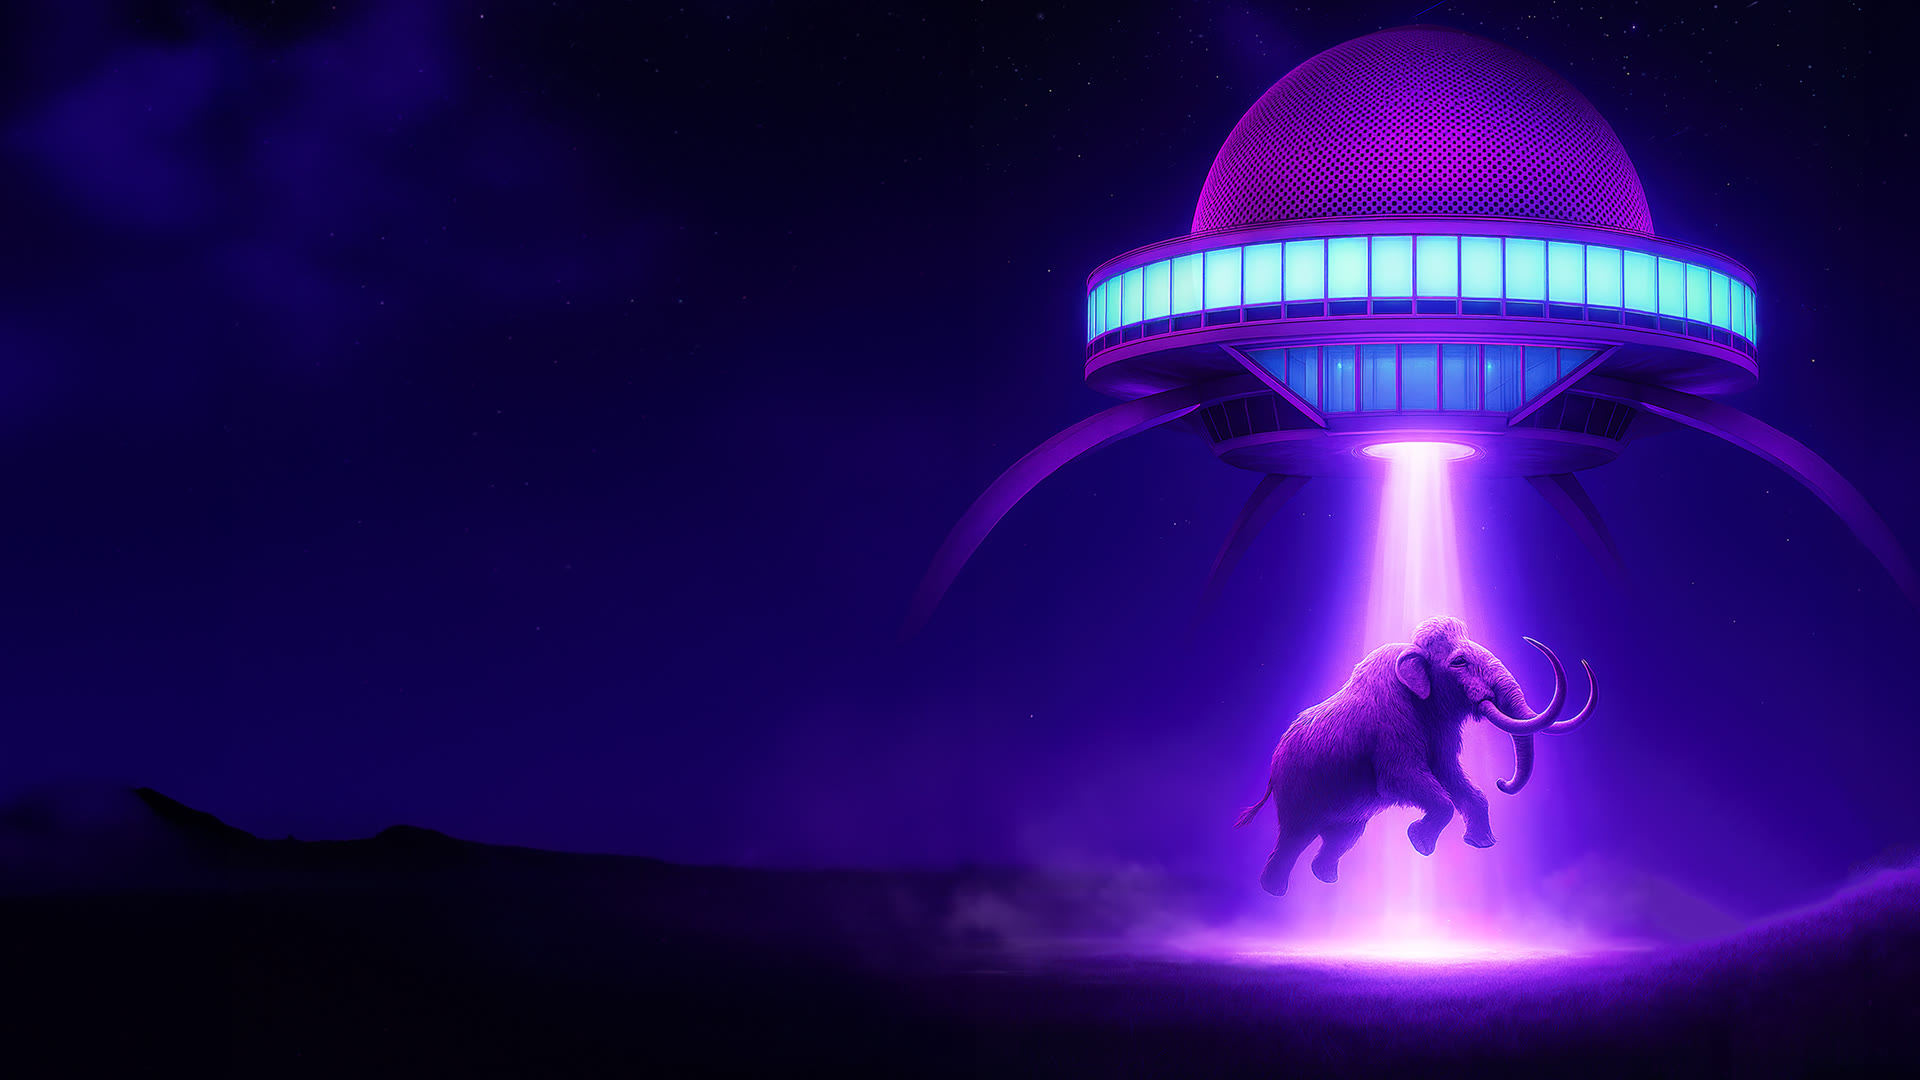
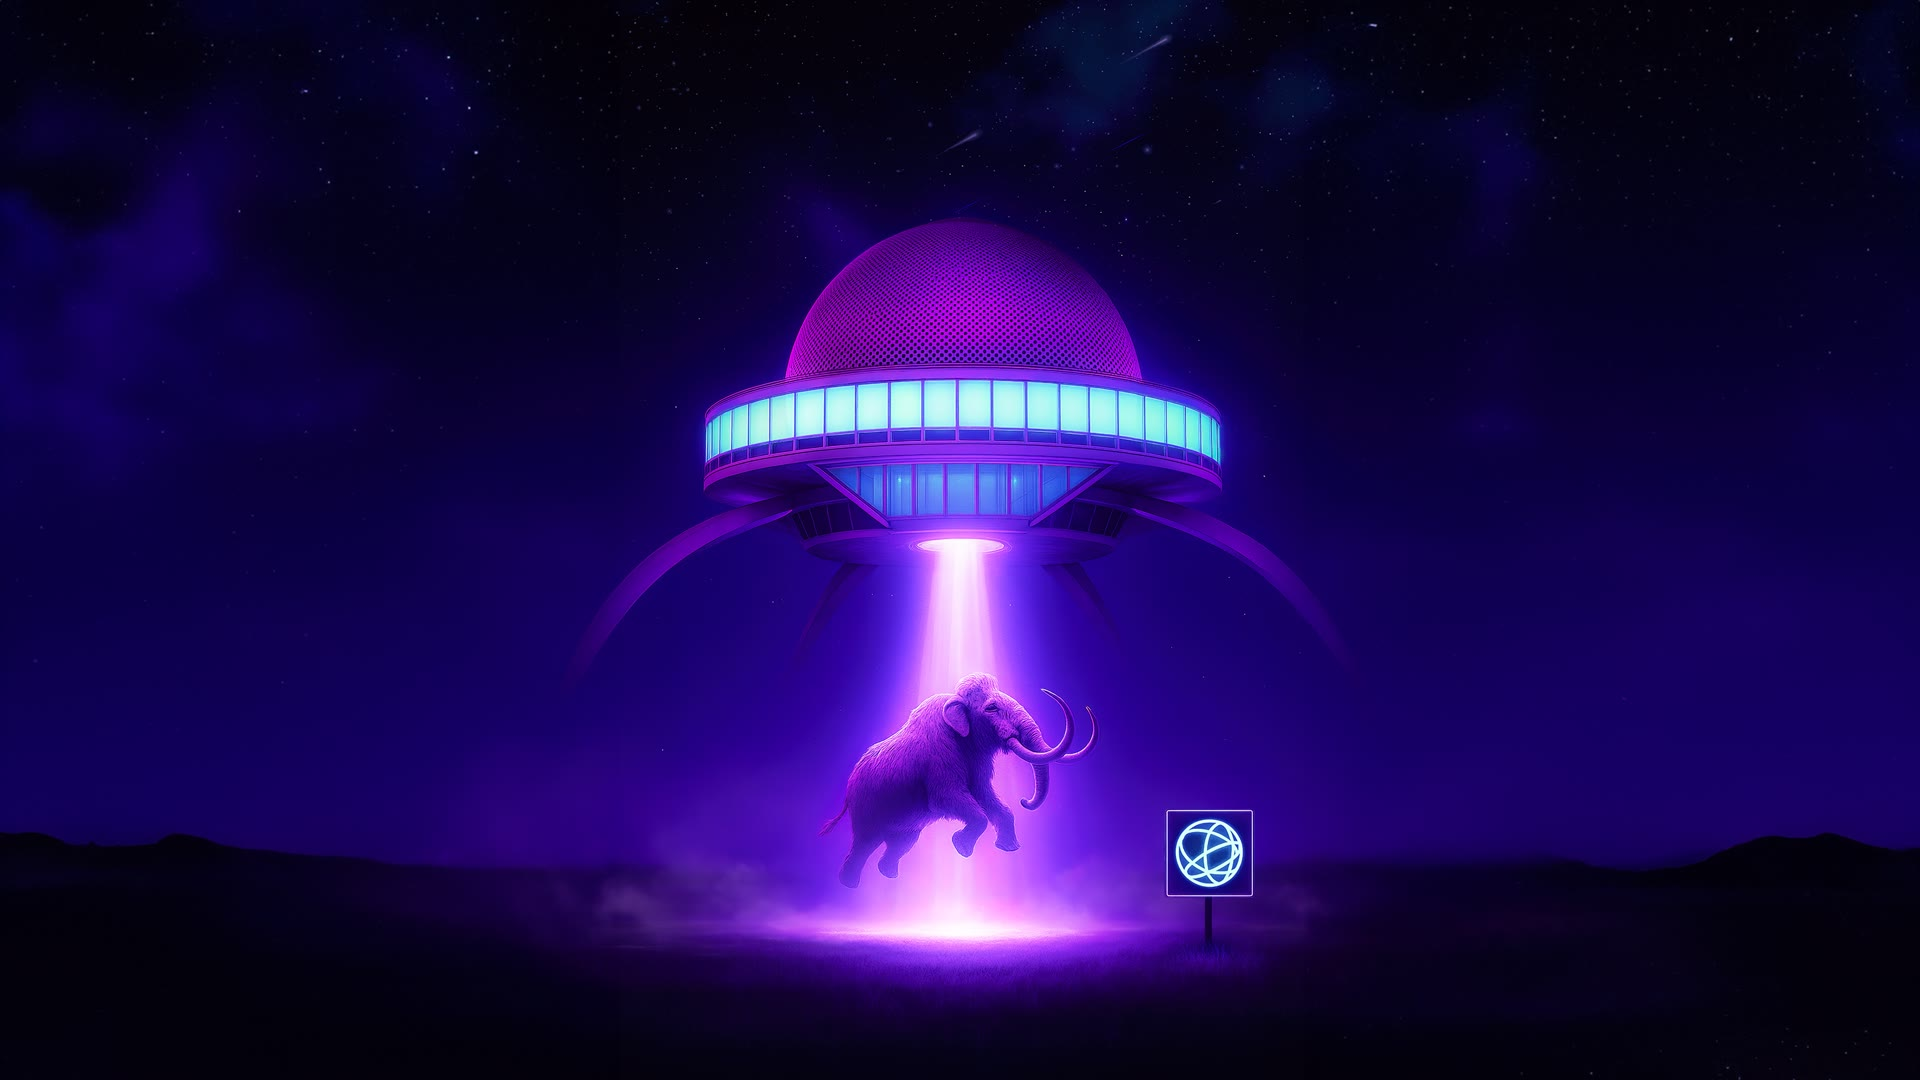
feat: enhance Planetary page with custom hero and footer background
- Replace MammothHero component with custom hero section using mammoth-hero.jpg
- Add mammoth-footer.jpg as background for sign-up section with gradient overlay
- Center-align text content and improve typography hierarchy
- Update color scheme to use cyan (#8AF4FF) for headings and buttons
- Convert tickets button from interactive to static display
- Improve responsive spacing and layout consistency
- Add proper gradient transitions between sections

diff --git a/src/app/planetary/page.js b/src/app/planetary/page.js
@@ -1,6 +1,6 @@
-import MammothHero from "@/components/Heroes/MammothHero";
 import { Row, Col } from "@/macros/Grids";
 import Container from "@/components/Container/Container";
+import Image from "next/image";
 
 import Meta from "@/components/Meta/Meta";
 import seo from "@/data/mammoth/seo";
@@ -9,32 +9,77 @@ export const metadata = Meta(seo);
 
 export default async function Mammoth() {
 	return (
-		<>
-			<MammothHero title={"Planetary"} />
-			<section className='pt-20 lg:pt-24 pb-24 lg:pb-32'>
+		<div className='bg-black min-h-screen'>
+			{/* Hero Section - Just the image */}
+			<section className='relative overflow-hidden aspect-square md:aspect-[13/6]'>
+				<Image
+					src='/images/app/mammoth/mammoth-hero.jpg'
+					alt='Mammoth Hero Background'
+					width={1920}
+					height={1080}
+					className='w-full h-full object-cover object-bottom'
+					priority
+				/>
+			</section>
+
+			{/* Main Content Section */}
+			<section
+				className='pb-24 lg:pb-32'
+				style={{
+					background: "linear-gradient(to top, #1E014D 0%, #040215 100%)",
+				}}
+			>
 				<Container size={"lg"}>
 					<Row>
 						<Col width={100}>
-							<p className='font-normal text-[24px] leading-[36px] lg:text-[32px] lg:leading-[48px] tracking-[0px] mb-8 sm:mb-16'>
+							{/* Date and Location Row */}
+							<div className='flex flex-col sm:flex-row gap-3 sm:gap-10 mb-12 lg:mb-4 justify-center'>
+								<div className='flex items-center gap-3 justify-center'>
+									<p className='text-white font-medium text-lg sm:text-xl'>NOVEMBER 19TH</p>
+								</div>
+								<div className='flex items-center gap-3 justify-center'>
+									<p className='text-white font-medium text-lg sm:text-xl'>BUENOS AIRES</p>
+								</div>
+							</div>
+
+							{/* Large Heading */}
+							<h1
+								className='mb-12 lg:mb-16 uppercase font-druk text-[#8AF4FF] text-[20vw] sm:text-[120px] md:text-[140px] lg:text-[260px] leading-[0.9] text-center'
+								style={{ textShadow: "0 0 0px #8AF4FF, 0 0 5px #8AF4FF" }}
+							>
+								PLANETARY
+							</h1>
+
+							{/* Tickets Button */}
+							<div className='mb-16 lg:mb-20 flex justify-center'>
+								<div className='relative overflow-hidden px-6 py-2 bg-[#9A34C2] text-white font-medium text-xl rounded-[36px] uppercase'>
+									<span className='font-druk uppercase text-5xl relative z-1 text-[#8AF4FF]'>TICKETS SOON</span>
+								</div>
+							</div>
+
+							{/* Paragraph Content */}
+							<p className='font-normal text-center text-[24px] leading-[36px] lg:text-[28px] lg:leading-[44px] tracking-[0px] mb-8 sm:mb-16 text-white'>
 								<span className='text-[#CB44FF] font-medium'>Introducing the first edition of Planetary</span> — a Celestia global
 								event series celebrating builders and unstoppable apps, now landing in Buenos Aires. Planetary travels to new cities
-								around the world, bringing together communities to explore the future of what’s possible onchain with mammoth
+								around the world, bringing together communities to explore the future of what&apos;s possible onchain with mammoth
 								throughput and Celestia underneath.
 							</p>
-							<p className='font-normal text-[24px] leading-[36px] lg:text-[32px] lg:leading-[48px] tracking-[0px]'>
-								A recent shift from Modular Summit to Planetary, a refreshed brand that better reflects Celestia’s long-term vision.
-								Planetary builds on the strong foundation of past events while evolving into a more intimate, future-focused
+							<p className='font-normal text-center text-[24px] leading-[36px] lg:text-[28px] lg:leading-[44px] tracking-[0px] text-white'>
+								A recent shift from Modular Summit to Planetary, a refreshed brand that better reflects Celestia&apos;s long-term
+								vision. Planetary builds on the strong foundation of past events while evolving into a more intimate, future-focused
 								gathering.
 							</p>
 						</Col>
 					</Row>
 				</Container>
 			</section>
-			<section className='relative'>
+
+			{/* Image Gallery Section */}
+			<section className='relative bg-[#1E014D]'>
 				<Container size={"lg"}>
 					<Row>
 						<Col width={100}>
-							<h1 className='mb-8 sm:mb-12 font-youth font-normal text-[32px] leading-[40px] sm:text-[46px] sm:leading-[55px] text-[#17141A]'>
+							<h1 className='mb-8 sm:mb-12 font-youth font-normal text-center text-[32px] leading-[40px] sm:text-[46px] sm:leading-[55px] text-[#8AF4FF]'>
 								Last Year Modular Summit, This Year Planetary
 							</h1>
 						</Col>
@@ -46,7 +91,7 @@ export default async function Mammoth() {
 						className='absolute bottom-0 left-0 w-full h-[323px] pointer-events-none z-10'
 						style={{
 							background:
-								"linear-gradient(360deg, #1E014D 5.42%, rgba(30, 1, 77, 0.9) 20.62%, rgba(30, 1, 77, 0.7) 33.66%, rgba(30, 1, 77, 0) 69.97%)",
+								"linear-gradient(360deg, #040215 5.42%, rgba(4, 2, 21, 0.9) 20.62%, rgba(4, 2, 21, 0.7) 33.66%, rgba(4, 2, 21, 0) 69.97%)",
 						}}
 					></div>
 					<div className='grid grid-cols-2 md:grid-cols-3 grid-rows-11 gap-3 h-[1200px] w-full'>
@@ -111,14 +156,25 @@ export default async function Mammoth() {
 			</section>
 
 			{/* Sign up section */}
-			<section className='bg-[#1E014D] pt-16 pb-32 lg:pb-40 lg:pt-24 max-w-[1680px] mx-auto px-2 relative'>
-				<div className='flex flex-col sm:flex-row items-center justify-between gap-6 sm:px-20 max-w-[1230px] mx-auto'>
-					<div className='text-white'>
-						<h2 className='font-youth font-normal text-[28px] leading-[36px] flex items-center text-white sm:text-[40px] sm:leading-[48px]'>
+			<section className='pt-16 pb-32 lg:pb-48 lg:pt-40 max-w-[1680px] mx-auto px-2 relative overflow-hidden'>
+				{/* Background Image */}
+				<Image
+					src='/images/app/mammoth/mammoth-footer.jpg'
+					alt='Mammoth Footer Background'
+					fill
+					className='object-cover object-top'
+					sizes='100vw'
+				/>
+				{/* Gradient Overlay */}
+				<div className='absolute inset-x-0 top-0 h-[100px] bg-gradient-to-t from-transparent to-[#040215]' />
+
+				<div className='flex flex-col sm:flex-row items-center justify-between gap-6 sm:px-20 max-w-[1230px] mx-auto relative z-10'>
+					<div>
+						<h2 className='font-youth font-normal text-[28px] leading-[36px] flex items-center text-[#8AF4FF] sm:text-[40px] sm:leading-[48px]'>
 							Sign up for Planetary
 						</h2>
 					</div>
-					<button className='bg-white hover:bg-gray-200 transition-colors duration-200 flex items-center gap-3 px-8 py-4 rounded-full group'>
+					<button className='bg-[#8AF4FF] hover:bg-[#6ee8f5] transition-colors duration-200 flex items-center gap-3 px-8 py-4 rounded-full group'>
 						<span className='font-medium text-black'>REGISTER</span>
 						<svg
 							width='14'
@@ -133,6 +189,6 @@ export default async function Mammoth() {
 					</button>
 				</div>
 			</section>
-		</>
+		</div>
 	);
 }
